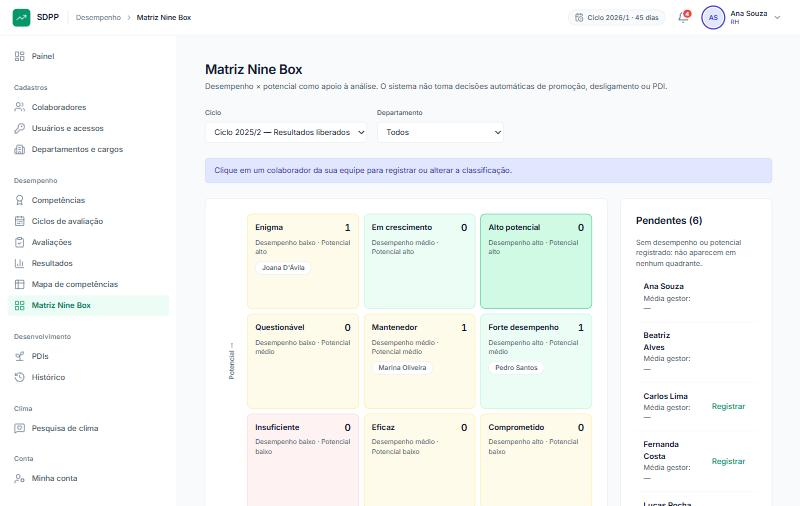
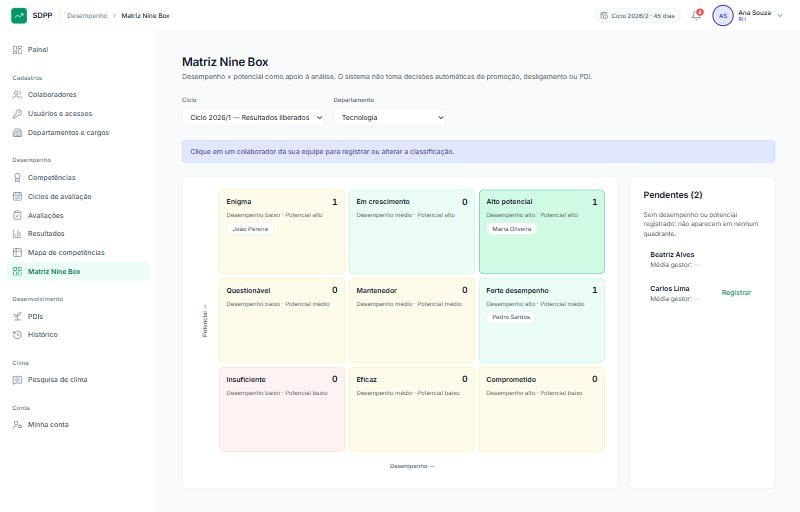
Atualiza as capturas de tela e corrige detalhes do README
As capturas mostravam os dados de demonstração antigos (outros nomes e ciclos). Refeitas com os dados atuais. Também corrige a versão do JUnit (6) e quem ainda pode responder a pesquisa de clima aberta.

diff --git a/README.md b/README.md
@@ -211,8 +211,8 @@ Situação montada (os nomes de ciclos e pesquisas seguem o semestre em que o ba
 - **ciclo do semestre atual**, aberto: Maria e Pedro já se autoavaliaram; João e Beatriz ainda não; todas as
   avaliações do Carlos estão pendentes;
 - **PDIs** da Maria (em dia) e do João (com uma ação atrasada);
-- **pesquisa de clima do semestre atual**, aberta, já respondida por Pedro, João e Rafael (Maria, Beatriz e
-  Carlos podem responder);
+- **pesquisa de clima do semestre atual**, aberta, já respondida por Pedro, João e Rafael (as demais contas,
+  como Maria, Beatriz e Carlos, ainda podem responder);
 - **pesquisa de clima do semestre passado**, encerrada, com resultados agregados (Tecnologia e Comercial, abaixo
   do mínimo de 5 respostas cada, aparecem reunidos em um só grupo).
 
@@ -267,7 +267,7 @@ flowchart LR
 | Backend | Java 21, Spring Boot 4.1, Spring Security (JWT em cookie HttpOnly + BCrypt), Spring Data JPA / Hibernate, Bean Validation |
 | Banco de dados | H2 em arquivo (desenvolvimento, sem instalação) · PostgreSQL (produção) |
 | Frontend | React 18, React Router 7, Vite 8, ícones Lucide |
-| Testes | JUnit 5, Spring MockMvc, AssertJ · Vitest, Testing Library · ESLint · roteiro ponta a ponta em Node.js |
+| Testes | JUnit 6, Spring MockMvc, AssertJ · Vitest, Testing Library · ESLint · roteiro ponta a ponta em Node.js |
 | Integração e deploy | GitHub Actions · Vercel (frontend) · Render com Docker (backend e PostgreSQL) |
 
 ### Estrutura do repositório
